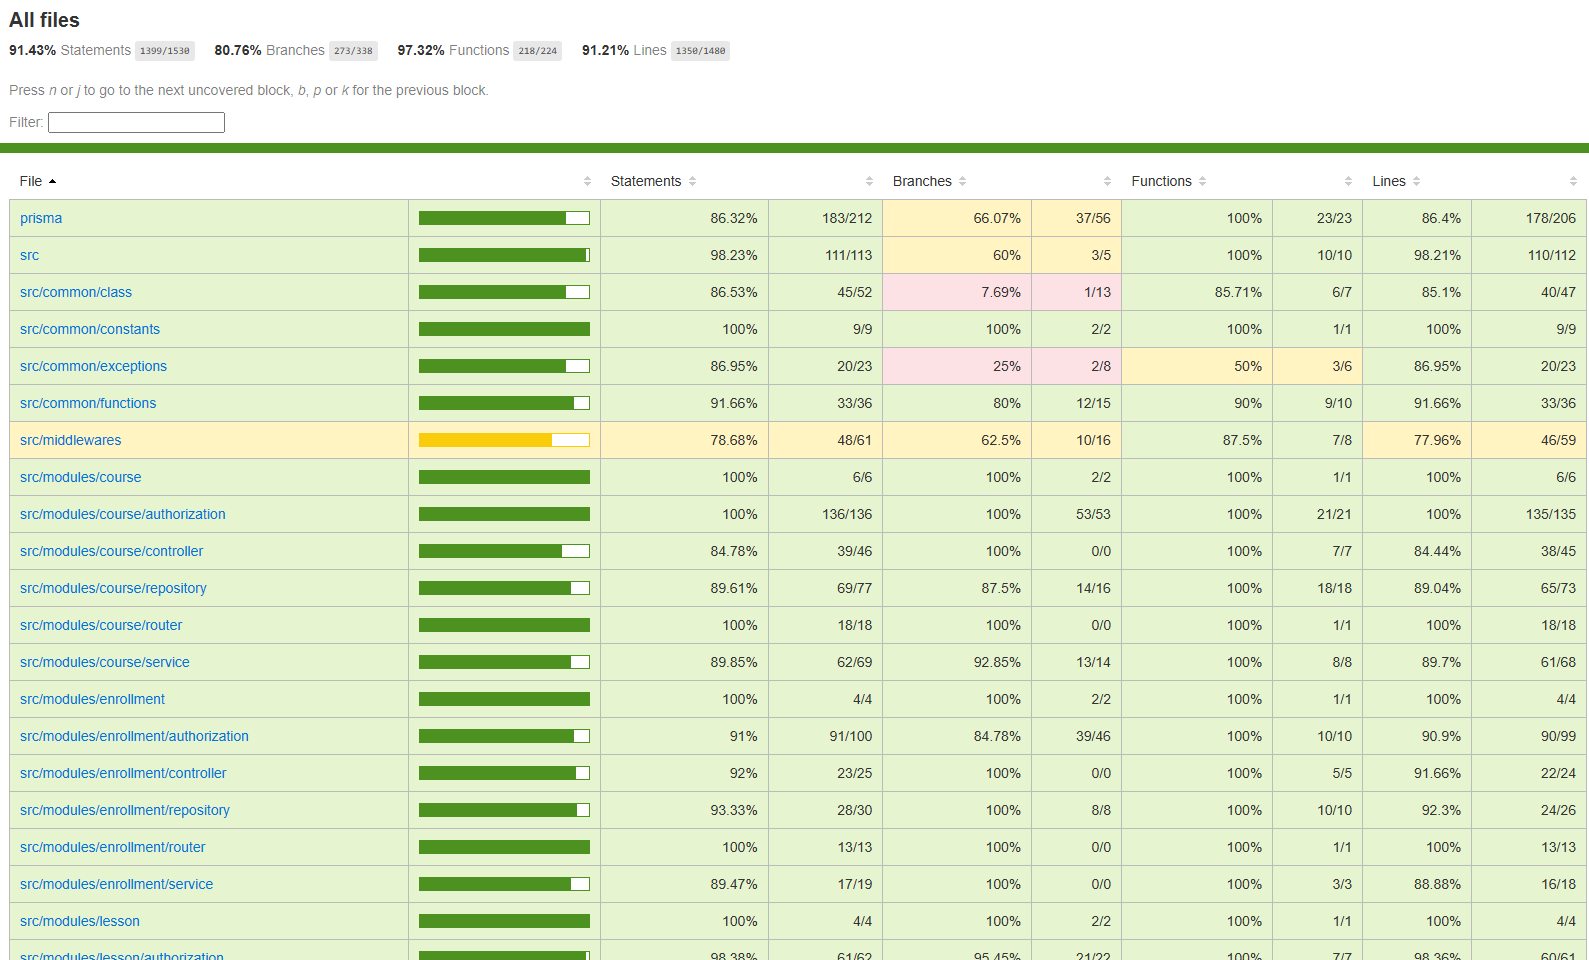
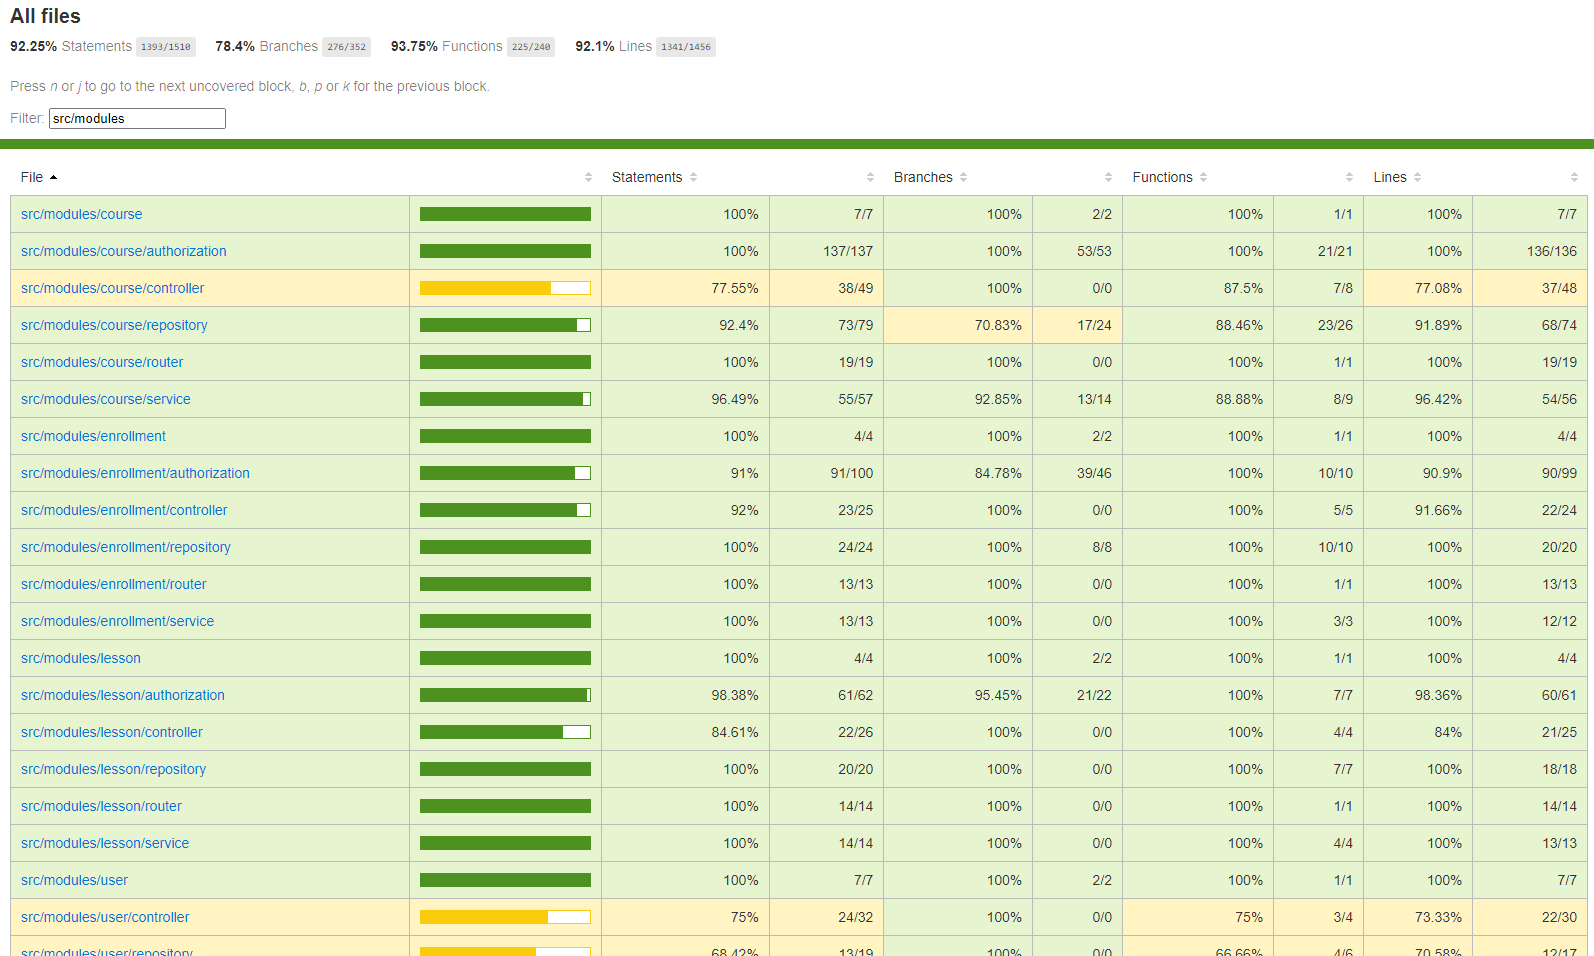
update

Changed region(s): [[0.0, 0.0, 1.0, 1.0]]

diff --git a/README.md b/README.md
@@ -13,7 +13,7 @@
 Link: _currently unavailable_
 ![Alt text](uploads/documentation.png.png)
 
-## Unit Test (91.21% Line Coverage)
+## Unit Test (92.1% Line Coverage)
 ![Alt text](uploads/coverage.png)
 
 ## Prisma Schema
